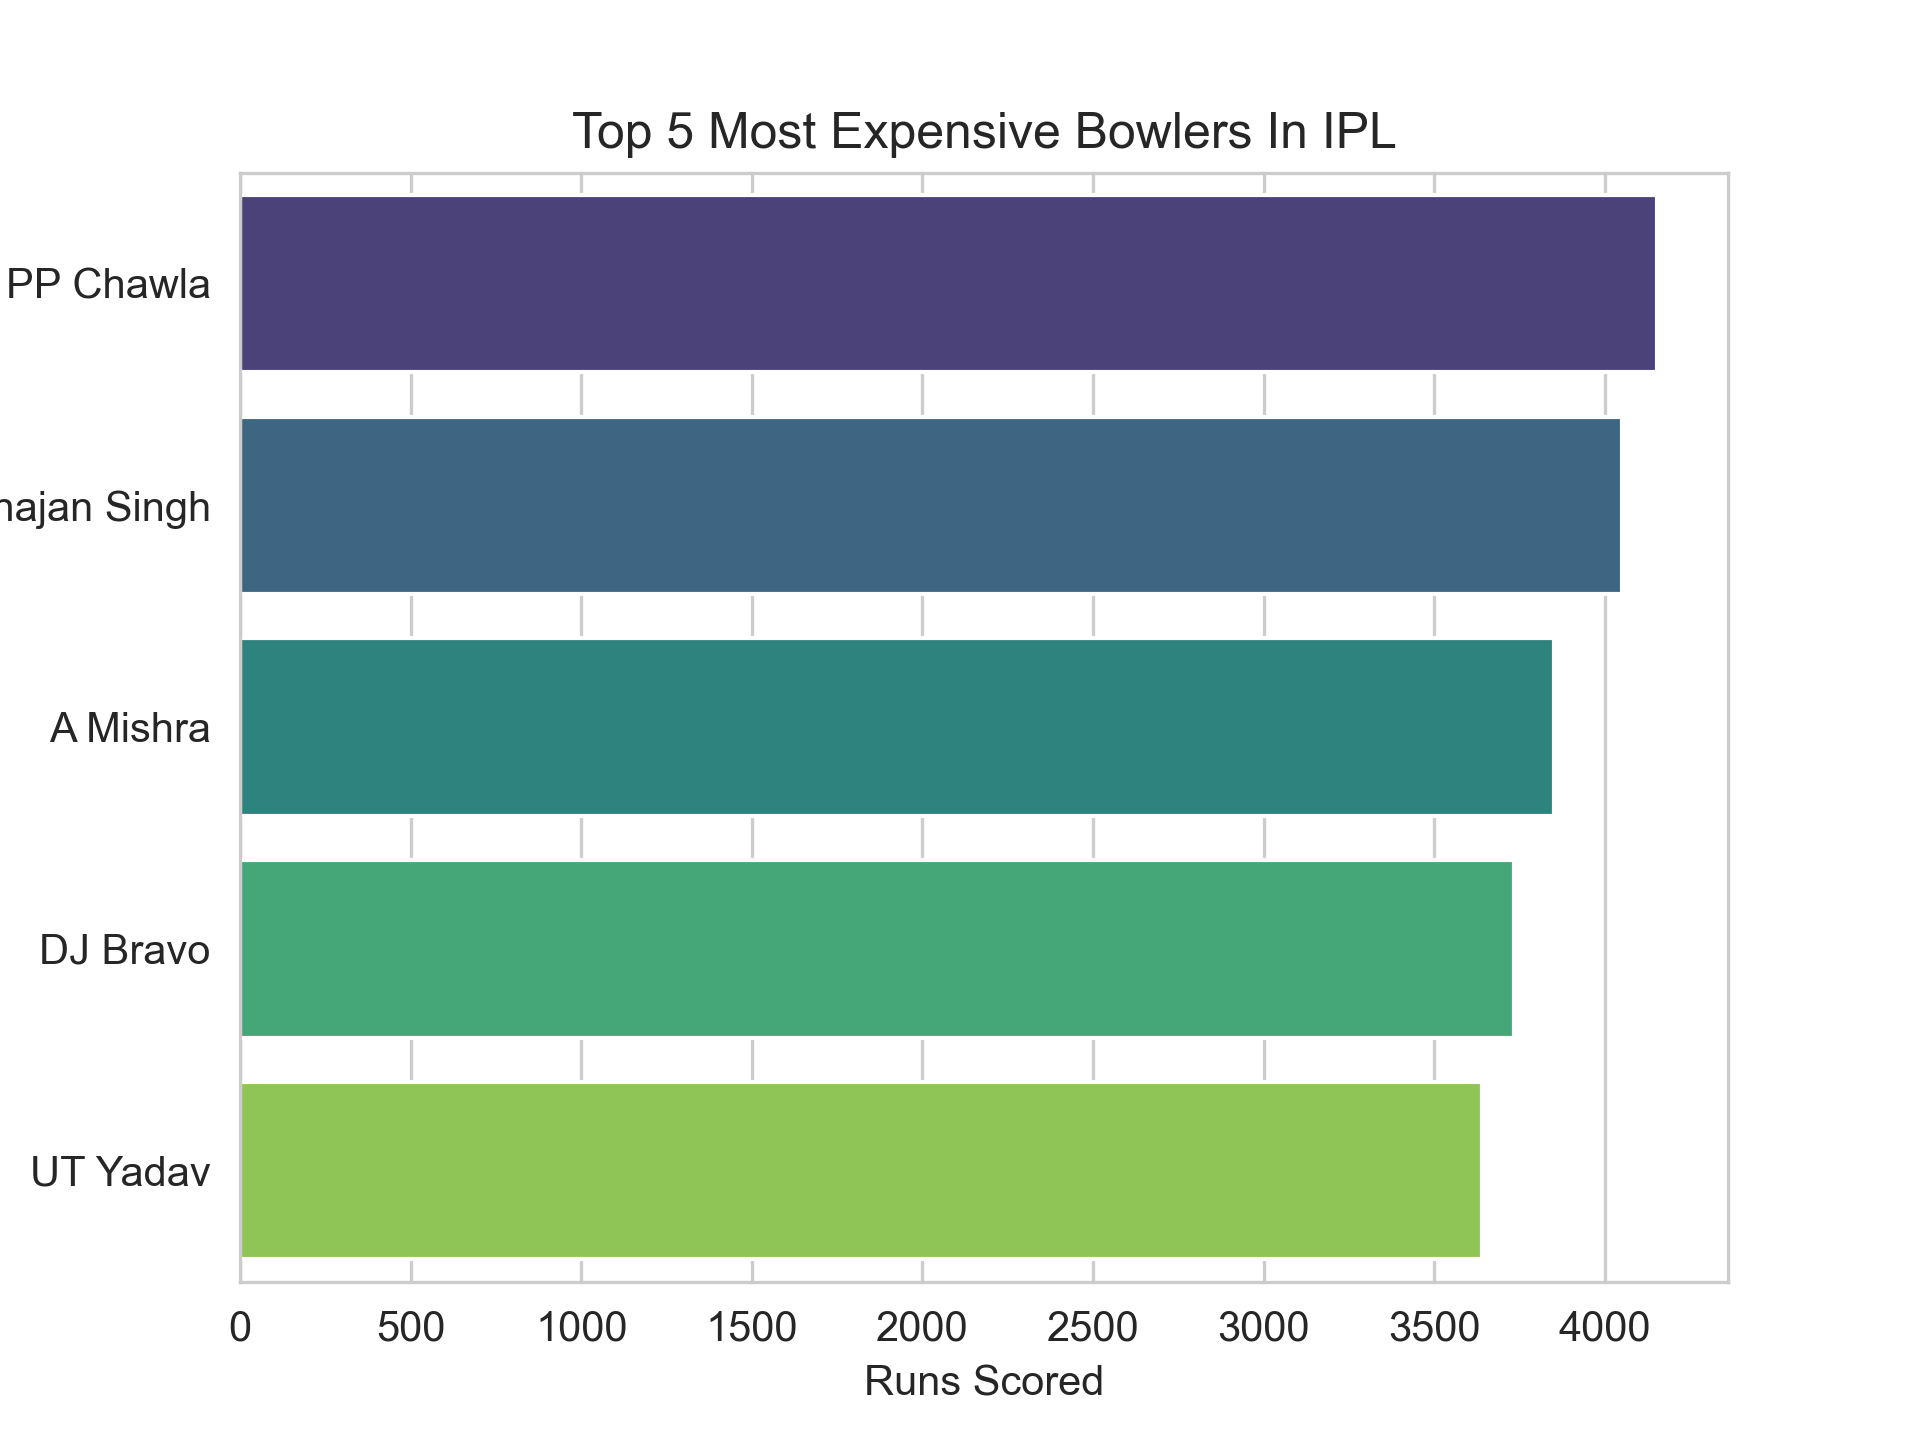
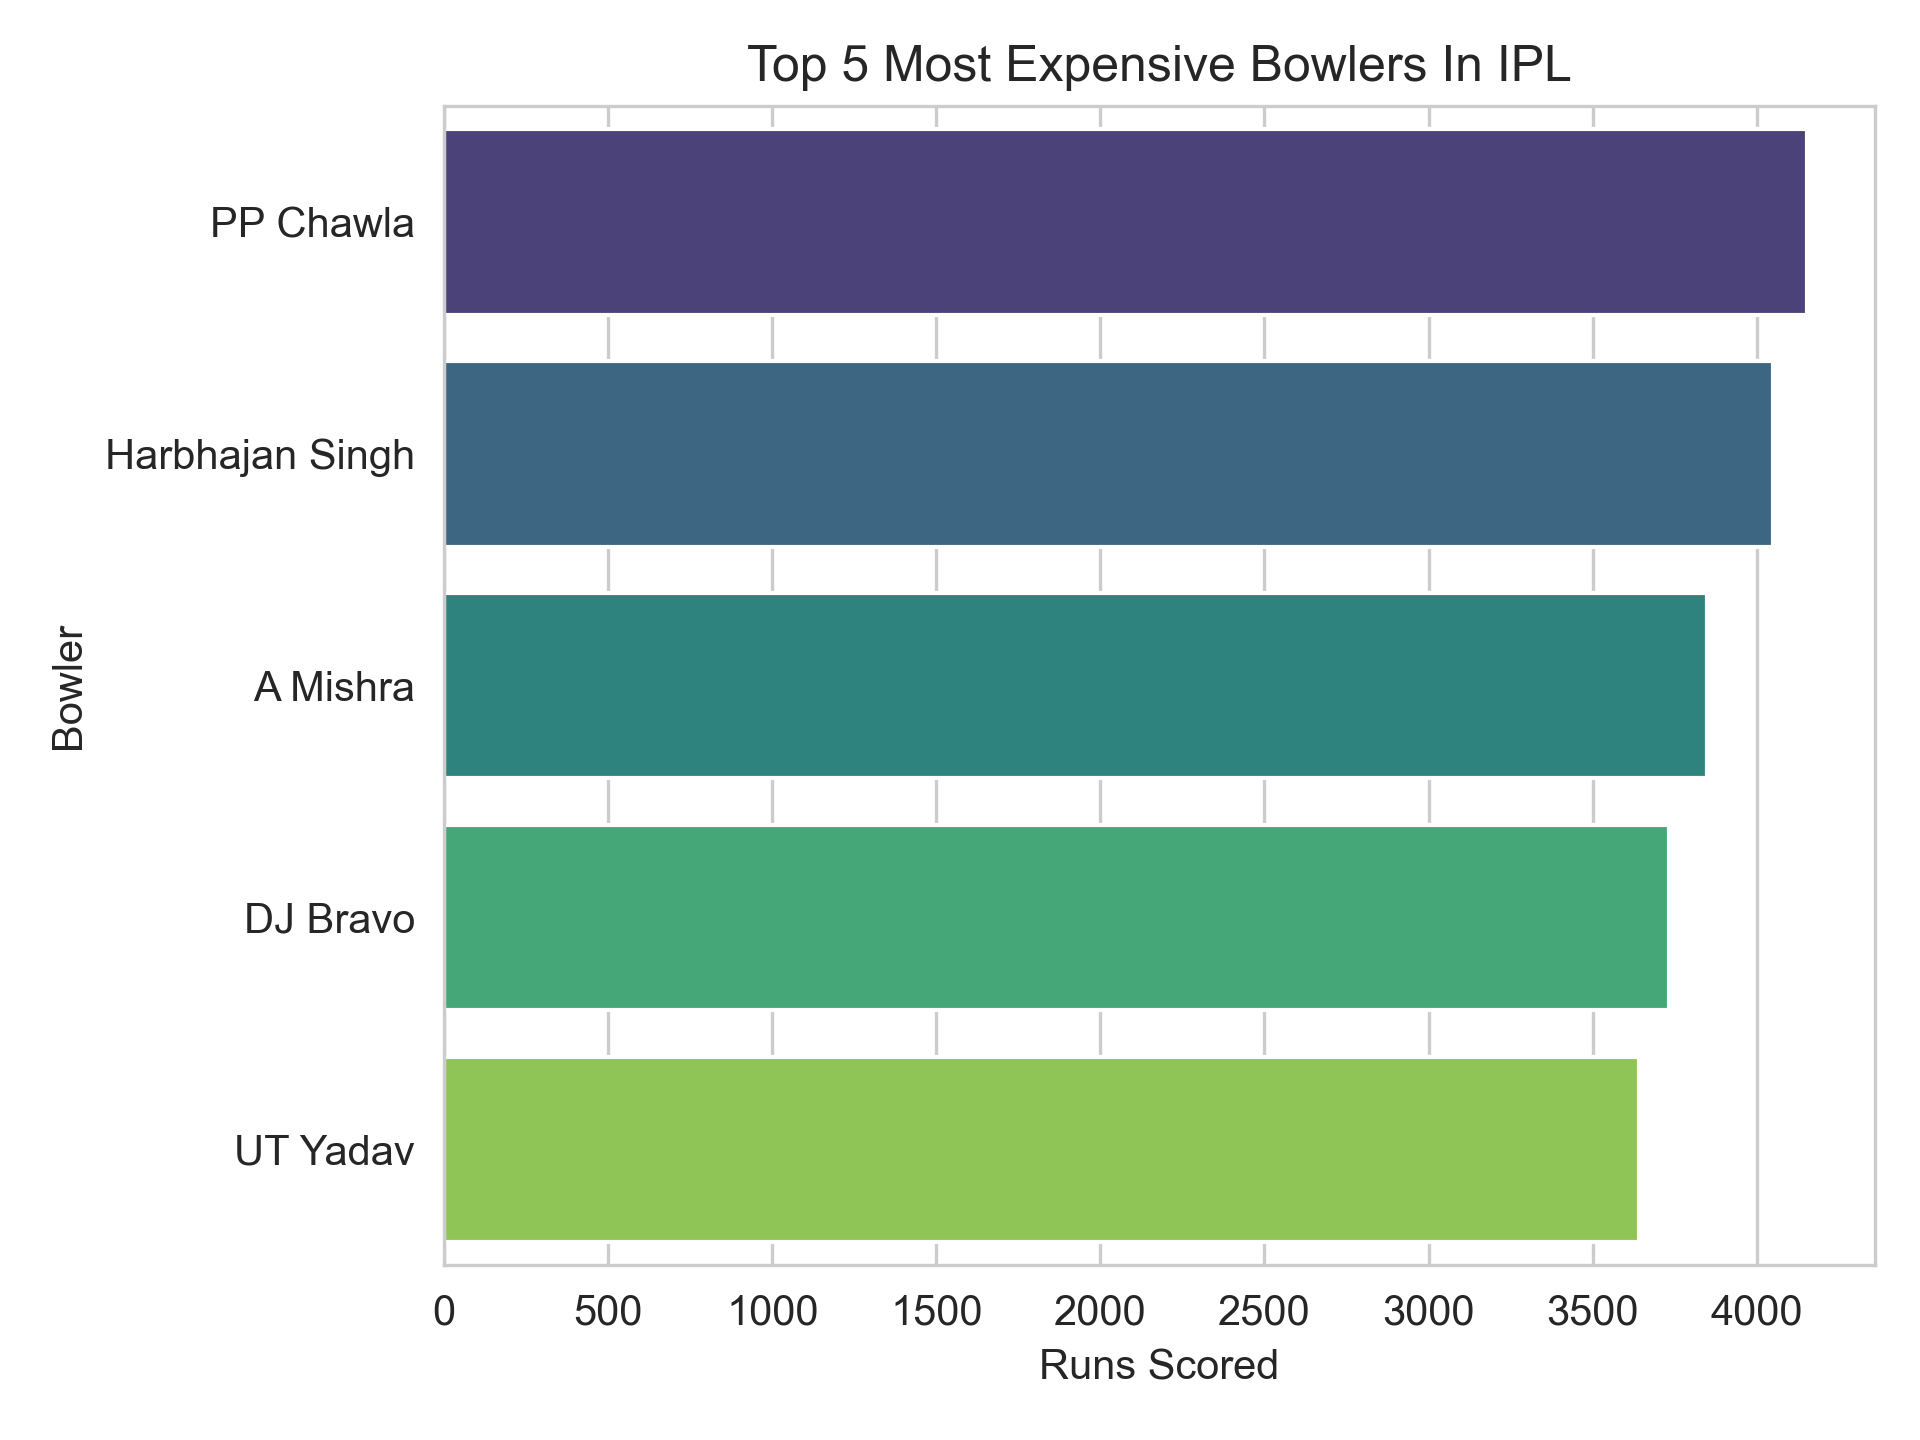
Final Adjustments

diff --git a/Data-Analysis.py b/Data-Analysis.py
@@ -122,13 +122,15 @@ def Bowling_Analysis():
     plt.title("Lowest Total Runs Conceded In IPL")
     plt.xlabel("Runs Scored")
     plt.ylabel("Bowler")
-    plt.savefig(os.path.join(save,"Top_Economical_Bowlers.png"),dpi=300)
+    plt.tight_layout()
+    plt.savefig(os.path.join(save,"Low-Run-Bowlers.png"),dpi=300)
     plt.show()
     top_bowlerex = (file1.groupby("bowler")["total_runs"].sum().sort_values(ascending=False).reset_index().head(5))
     sns.barplot(data=(top_bowlerex),y="bowler",x="total_runs",hue="bowler",palette="viridis")
     plt.title("Top 5 Most Expensive Bowlers In IPL")
     plt.xlabel("Runs Scored")
     plt.ylabel("Bowler")
+    plt.tight_layout()
     plt.savefig(os.path.join(save,"Top_Expensive_Bowlers.png"),dpi=300)
     plt.show()
     topb=file1["bowler"].value_counts().head(10).index

diff --git a/README.md b/README.md
@@ -306,12 +306,6 @@ These patterns suggest a noticeable home-ground advantage for several franchises
 
 ---
 
-## Most Economical Bowlers
-
-![Most Economical Bowlers](Graphs_And_Charts/Top_Economical_Bowlers.png)
-
----
-
 ## Toss Winner vs Match Winner
 
 ![Toss Winner vs Match Winner](Graphs_And_Charts/Tosswinner-Matchwinner.png)
